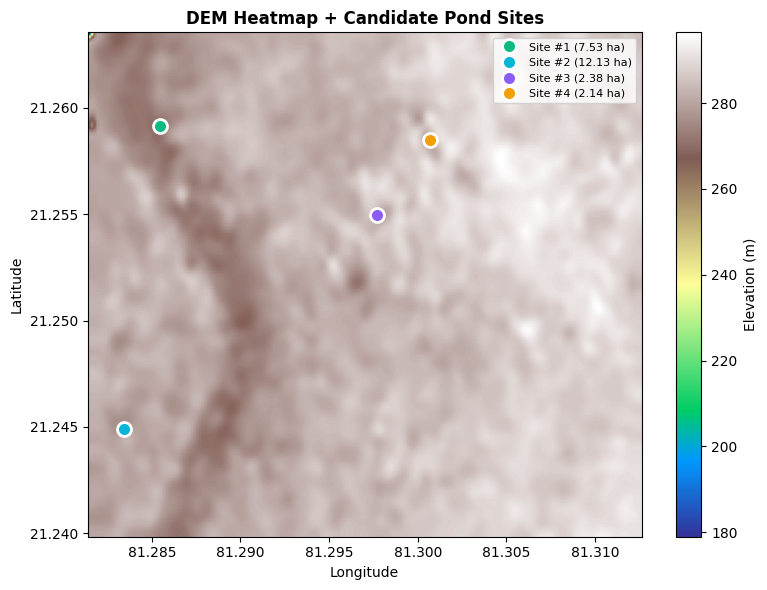
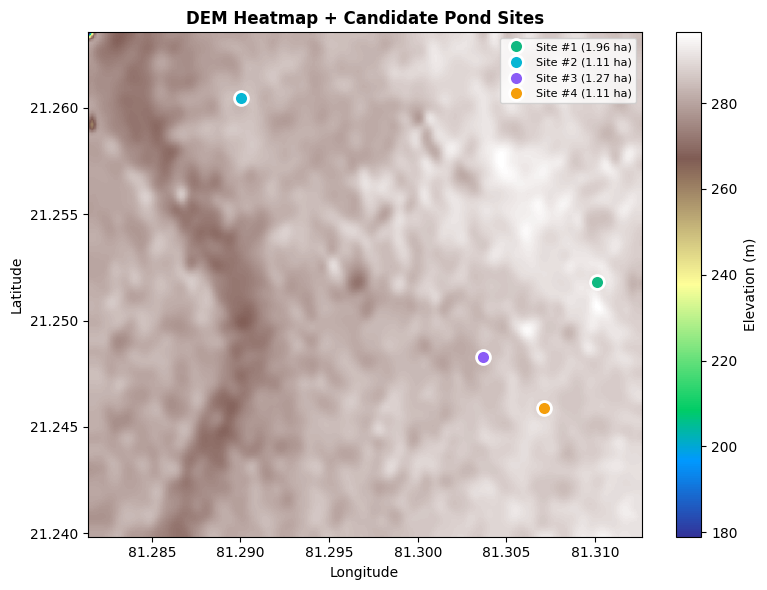
fix: exclude river bed/trough from candidate ponds and catchment polygons

diff --git a/terrain_analyzer.py b/terrain_analyzer.py
@@ -231,12 +231,13 @@ def analyze_terrain_and_catchment(parsed_kml_data, max_candidate_ponds=4):
         R2,C2=r+int(fdr[r,c]),c+int(fdc[r,c])
         if 0<=R2<nr2 and 0<=C2<nc2: umap.setdefault((R2,C2),[]).append((r,c))
 
-    # River Corridor Identification: top 1.5% FA cells (river network)
-    river_thresh = np.percentile(fa, 98.5)
-    is_river = fa >= river_thresh
+    # River Corridor Identification: top 5% FA OR lowest 18% elevation flat valley trough
+    river_thresh = np.percentile(fa, 95)
+    elev_river_thresh = np.percentile(dem_raw, 18)
+    is_river = (fa >= river_thresh) | ((dem_raw <= elev_river_thresh) & (slope < 3.0))
     dist_r = distance_transform_edt(~is_river) * ((cx + cy) / 2)
-    # Enforce minimum 100m river buffer to prevent ponds on river banks
-    buf = max(100.0, dist_r.max() * 0.25)
+    # Enforce minimum 120m river buffer
+    buf = max(120.0, dist_r.max() * 0.25)
 
     # TWI
     sr=np.radians(np.clip(slope,0.1,89)); spa=np.maximum(fa*cx,1.0)
@@ -263,7 +264,8 @@ def analyze_terrain_and_catchment(parsed_kml_data, max_candidate_ponds=4):
         t=set(); stk=[(int(r),int(c))]
         while stk and len(t)<mc*3:
             cell=stk.pop()
-            if cell not in t: t.add(cell); stk.extend(umap.get(cell,[]))
+            if cell not in t and not is_river[cell[0],cell[1]]:
+                t.add(cell); stk.extend(umap.get(cell,[]))
         if len(t)<mc: continue
         if all((r-pr)**2+(c-pc)**2>=sep**2 for pr,pc in sel): sel.append((r,c))
         if len(sel)>=max_candidate_ponds: break
@@ -277,7 +279,8 @@ def analyze_terrain_and_catchment(parsed_kml_data, max_candidate_ponds=4):
         cat=set(); stk=[(int(pr),int(pc))]
         while stk:
             cell=stk.pop()
-            if cell not in cat: cat.add(cell); stk.extend(umap.get(cell,[]))
+            if cell not in cat and not is_river[cell[0],cell[1]]:
+                cat.add(cell); stk.extend(umap.get(cell,[]))
         am2=len(cat)*ca; aha=am2/10000; aac=am2/4046.86
         bnd=_shapely_poly(cat,gx,gy,cx,cy,t2w)
         rf=0.85; rc2=0.35; rm3=am2*rf*rc2
